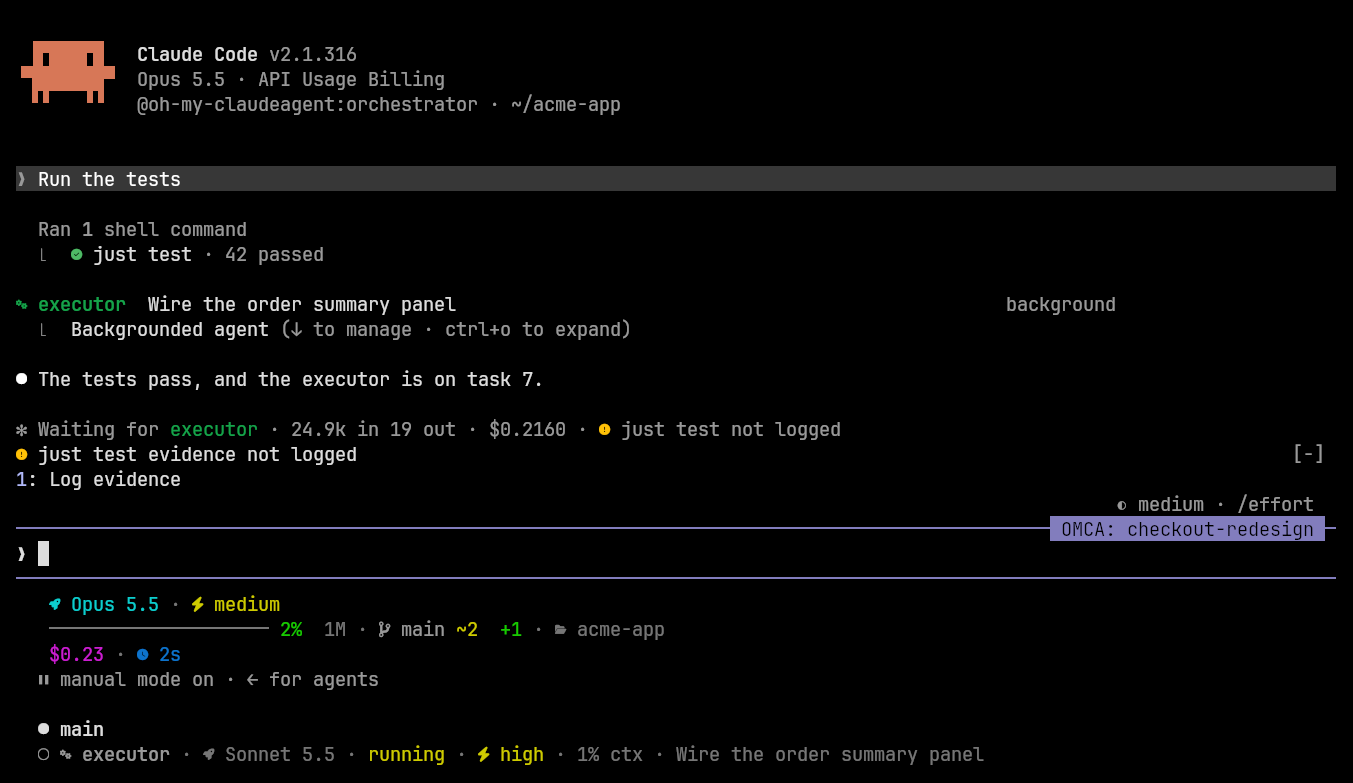
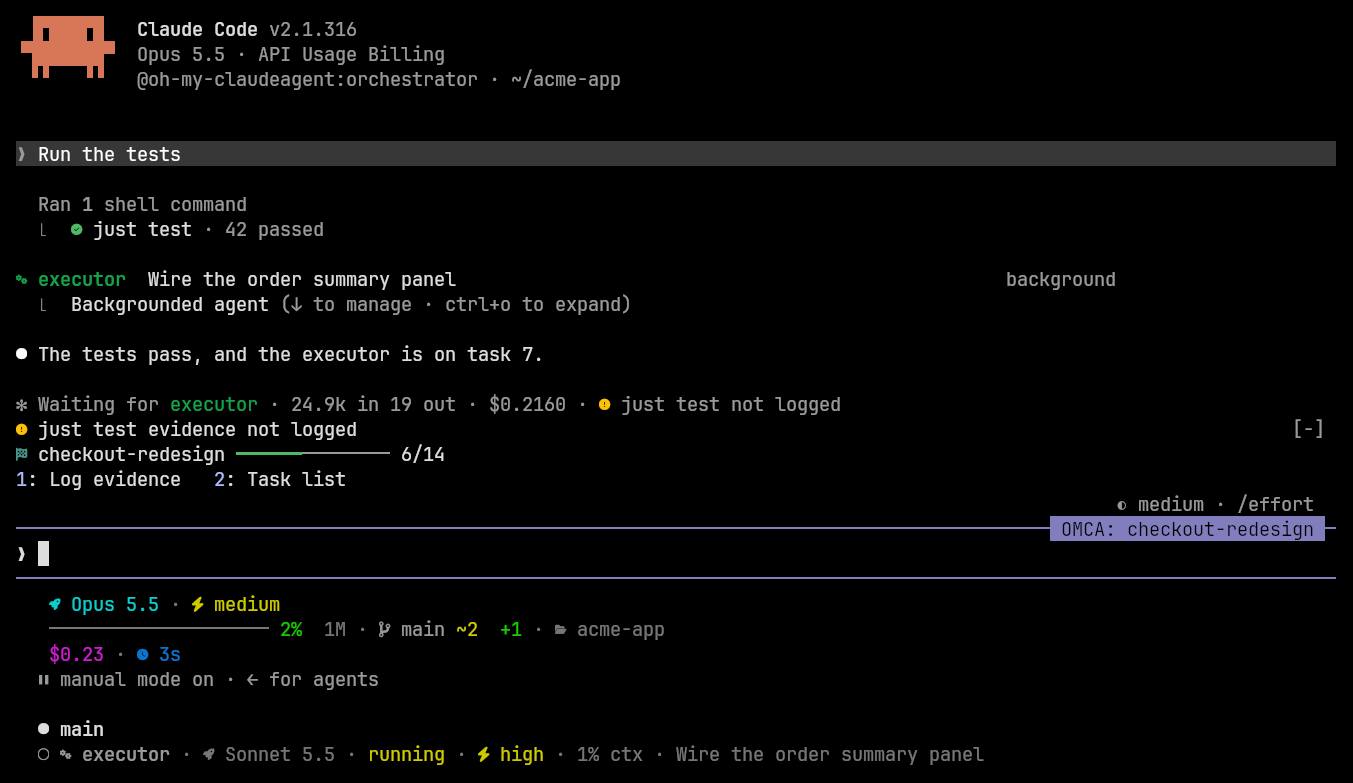
docs(readme): recapture the band, hero and transcript screens

Changed region(s): [[0.0, 0.0, 0.9933, 0.6437], [0.745, 0.3372, 0.8381, 0.3985]]

diff --git a/README.md b/README.md
@@ -4,7 +4,7 @@
 
 [![CI](https://github.com/UtsavBalar1231/oh-my-claudeagent/actions/workflows/ci.yml/badge.svg)](https://github.com/UtsavBalar1231/oh-my-claudeagent/actions/workflows/ci.yml)
 
-<img src=".github/assets/hero.png" width="1000" alt="A Claude Code session on the left hands task 7 of the checkout run to the executor, while the OMCA pane on the right shows the Agents tab with the executor's lane on Wire the order summary panel.">
+<img src=".github/assets/hero.png" width="1000" alt="A Claude Code session on the left hands task 7 of the checkout run to the executor, while the OMCA pane on the right shows the Agents tab with the executor's lane on Wire the order summary panel. Above the prompt, the band shows the checkout-redesign run at 6 of 14.">
 
 oh-my-claudeagent (OMCA) coordinates specialist agents, plans and verification evidence in
 Claude Code and OpenCode V2. Both adapters share state formats, safety checks and durable
@@ -77,7 +77,7 @@ The band above the prompt warns when a verification run has no logged evidence, 
 open tasks it shows the run's progress. The numbered buttons fill the prompt with the step that logs
 the evidence and with `/tasklist`.
 
-<img src=".github/assets/band.png" width="680" alt="The band above the prompt warns that the evidence for just test was not logged, with the button 1: Log evidence below it. Above it, the receipt under the shell command reads just test, 42 passed, and the turn line ends with just test not logged.">
+<img src=".github/assets/band.png" width="680" alt="The band above the prompt warns that the evidence for just test was not logged, then shows the checkout-redesign run with its progress bar at 6 of 14, with the buttons 1: Log evidence and 2: Task list below. Above it, the receipt under the shell command reads just test, 42 passed, and the turn line ends with just test not logged.">
 
 `/tasklist` opens the Tasks pane: Claude's own task list whole, in the order the work runs, each
 task with what it does and what holds it back.
